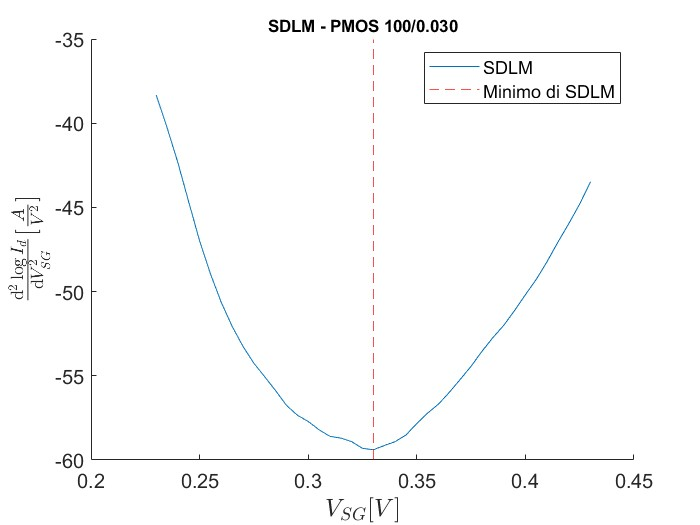
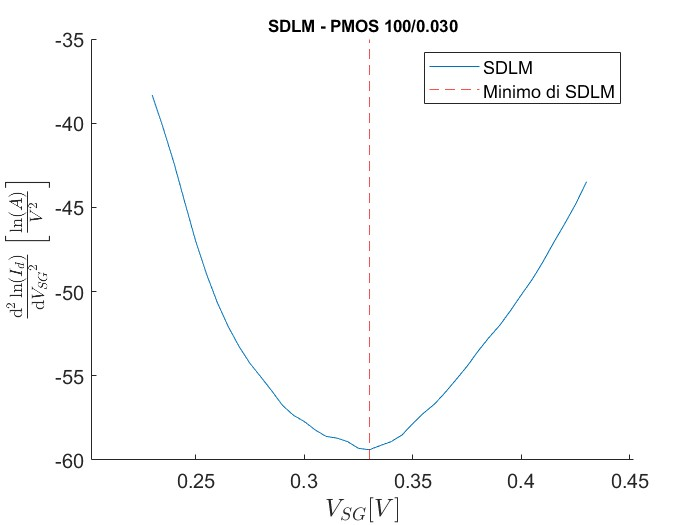
Aggiornamento immagini SDLM

diff --git a/Script Statiche/Vth.m b/Script Statiche/Vth.m
@@ -81,7 +81,7 @@ classdef Vth
 
 
             xlabel( xlabelb_txt, "Interpreter","latex" , FontSize=15);
-            ylabel("$\frac{I_D}{\sqrt{g_m}} \left[ \sqrt{\frac{A^3}{V}} \right]$" , Interpreter="latex" , FontSize=15);
+            ylabel("$\frac{I_D}{\sqrt{g_m}} [ \sqrt{A \cdot V}]$" , Interpreter="latex" , FontSize=15);
             legend( "$I_D$", "Ratio Method", Interpreter = "latex" , Location = "northwest");
             hold off
 
@@ -389,23 +389,23 @@ classdef Vth
 
                 if tipo == 'P'
                     xlabeltxt = "$V_{SG}[V]$";
-                    ylabeltxt = "$\frac{\mathrm {d}^2 \log{I_d}}{\mathrm {d} V_{SG}^2}[\frac{A}{V^2}]$";
+                    ylabeltxt = "$\frac{\mathrm {d}^2 \ln(I_d)}{\mathrm {d} {V_{SG}}^2} \left[\frac{\ln(A)}{V^2}\right]$";
                 elseif tipo == 'N'
                     xlabeltxt = "$V_{GS}[V]$";
-                    ylabeltxt = "$\frac{\mathrm {d}^2 \log{I_d}}{\mathrm {d} V_{GS}^2}[\frac{A}{V^2}]$";
+                    ylabeltxt = "$\frac{\mathrm {d}^2 \ln(I_d)}{\mathrm {d} {V_{GS}}^2}  \left[\frac{\ln(A)}{V^2}\right]$";
                 end
 
                 xlabel(xlabeltxt , "Interpreter","latex", "FontSize",15);
                 ylabel(ylabeltxt , "Interpreter", "latex", "FontSize", 15);
                 %Plot dei dati calcolati
-                plot(vgs(indici_intervallo),derivata_2_SDLM(indici_intervallo))
+                plot(vgs(indici_intervallo),derivata_2_SDLM(indici_intervallo) , DisplayName= "SDLM")
                 %plot della vth dei dati calcolati
-                xline(vth_SDLM_noFit,"--","Color","r");
+                xline(vth_SDLM_noFit,"--","Color","r" , DisplayName= "Minimo di SDLM");
                 %plot della polinomiale
-                plot(intervallo_alta_ris, grafico);
+                plot(intervallo_alta_ris, grafico , DisplayName="Fit di grado "+ GRADO);
                 %plot vth della polinomiale
-                plot(vth , min_grafico , "*", color="r", MarkerSize=20)
-                legend( "SDLM", "Minimo di SDLM", "Fit di grado "+ GRADO, "Minimo del fit");
+                plot(vth , min_grafico , "*", color="r", MarkerSize=20 , DisplayName="Minimo del fit")
+                legend();
                 hold off
             end
 
